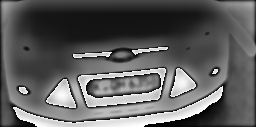
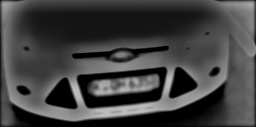
Swithced to cv subtract instead

diff --git a/LAB3/filter2d.cpp b/LAB3/filter2d.cpp
@@ -37,10 +37,9 @@ int main( int argc, char** argv )
  GaussianBlur(gray_image,23,carBlurred);
 
  Mat doubleImage;
- AddImages(gray_image, gray_image, doubleImage);
+ cv::add(gray_image, gray_image, doubleImage);
  Mat outputImage;
- SubImages(doubleImage, carBlurred, outputImage);
-
+ cv::subtract(doubleImage, carBlurred, outputImage);
  imwrite( "blur.jpg", outputImage );
 
  return 0;
@@ -104,30 +103,6 @@ void GaussianBlur(cv::Mat &input, int size, cv::Mat &blurredOutput)
 			}
 			// set the output value as the sum of the convolution
 			blurredOutput.at<uchar>(i, j) = (uchar) sum;
-		}
-	}
-}
-	
-
-//Subtract image2 from image1
-void SubImages(cv::Mat &image1, cv::Mat &image2, cv::Mat &output) {
-  output.create(image1.size(), image1.type());
-  for ( int i = 0; i < image2.rows; i++ )
-	{	
-		for( int j = 0; j < image2.cols; j++ )
-		{
-			output.at<uchar>(i, j) = image1.at<uchar>(i, j) - image2.at<uchar>(i, j);
-		}
-	}
-}
-
-void AddImages(cv::Mat &image1, cv::Mat &image2, cv::Mat &output) {
-  output.create(image1.size(), image1.type());
-  for ( int i = 0; i < image2.rows; i++ )
-	{	
-		for( int j = 0; j < image2.cols; j++ )
-		{
-			output.at<uchar>(i, j) = image1.at<uchar>(i, j) + image2.at<uchar>(i, j);
 		}
 	}
 }
